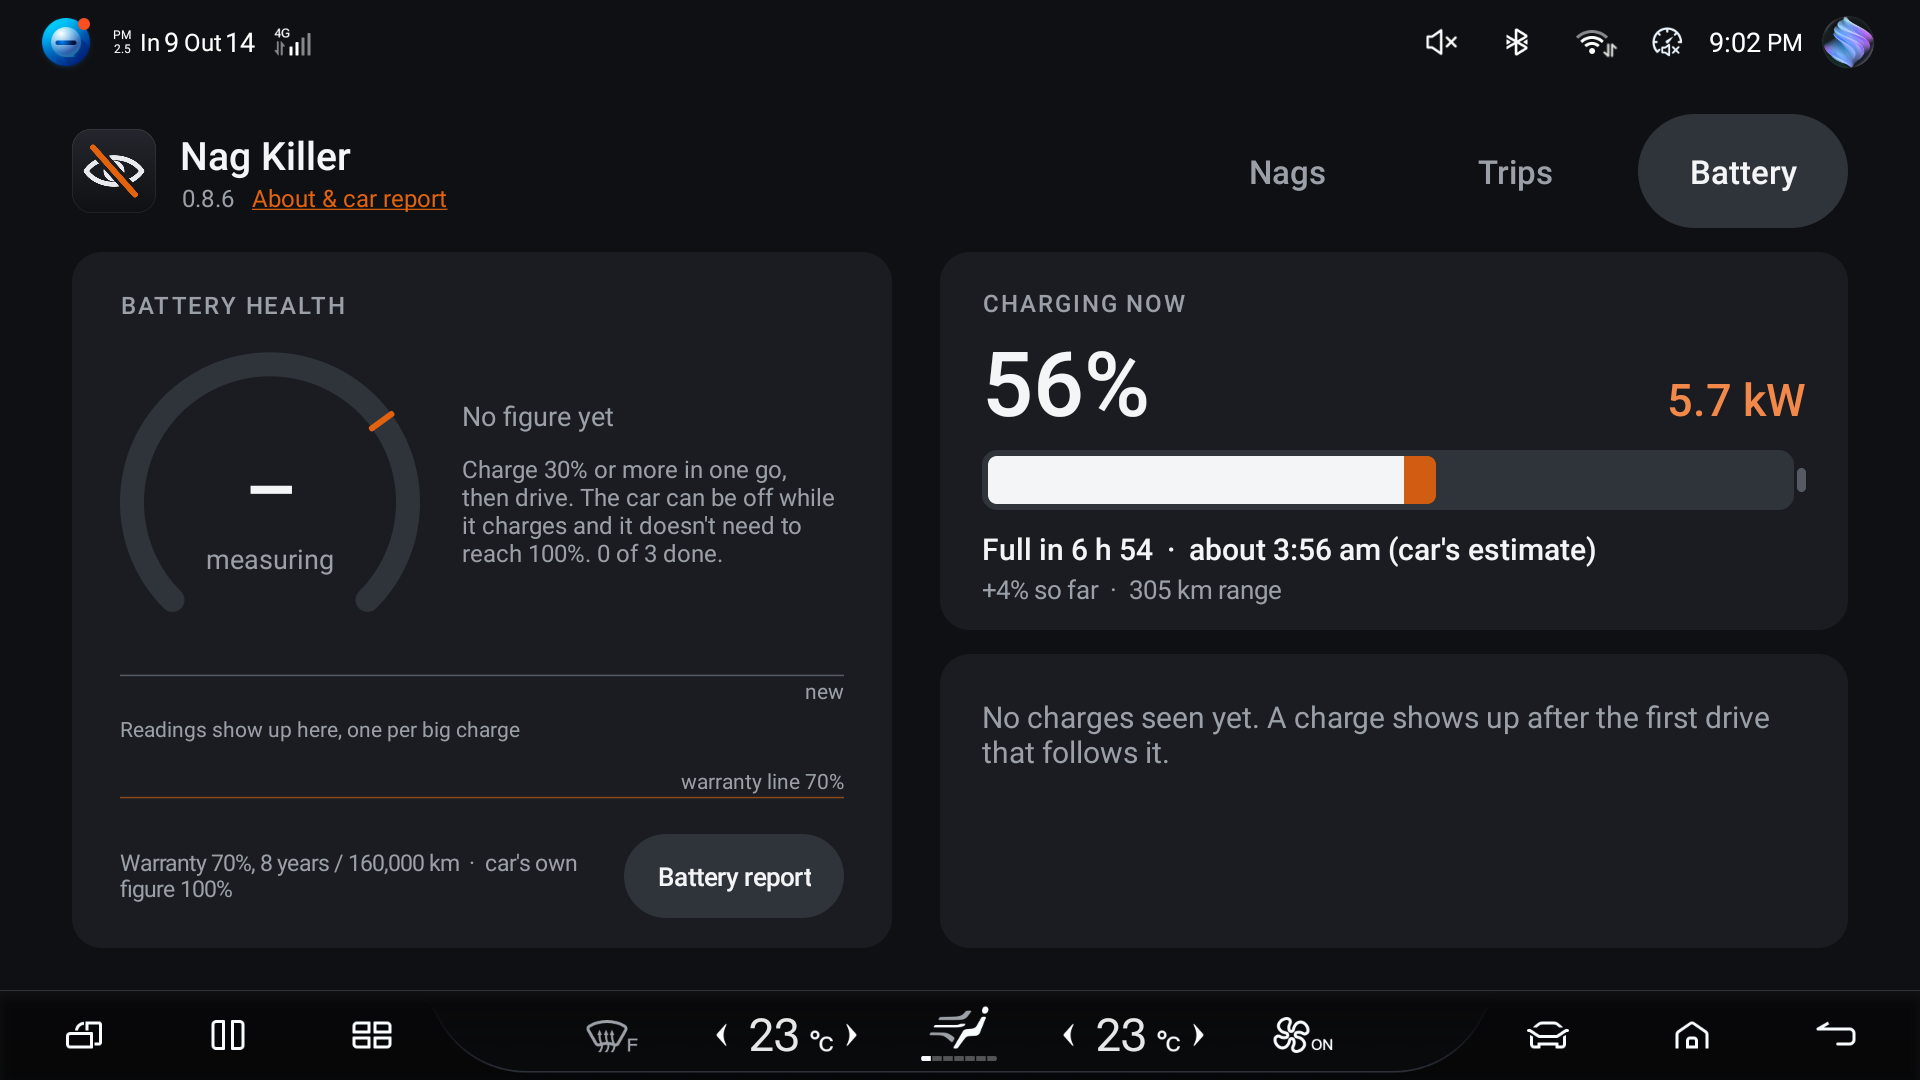
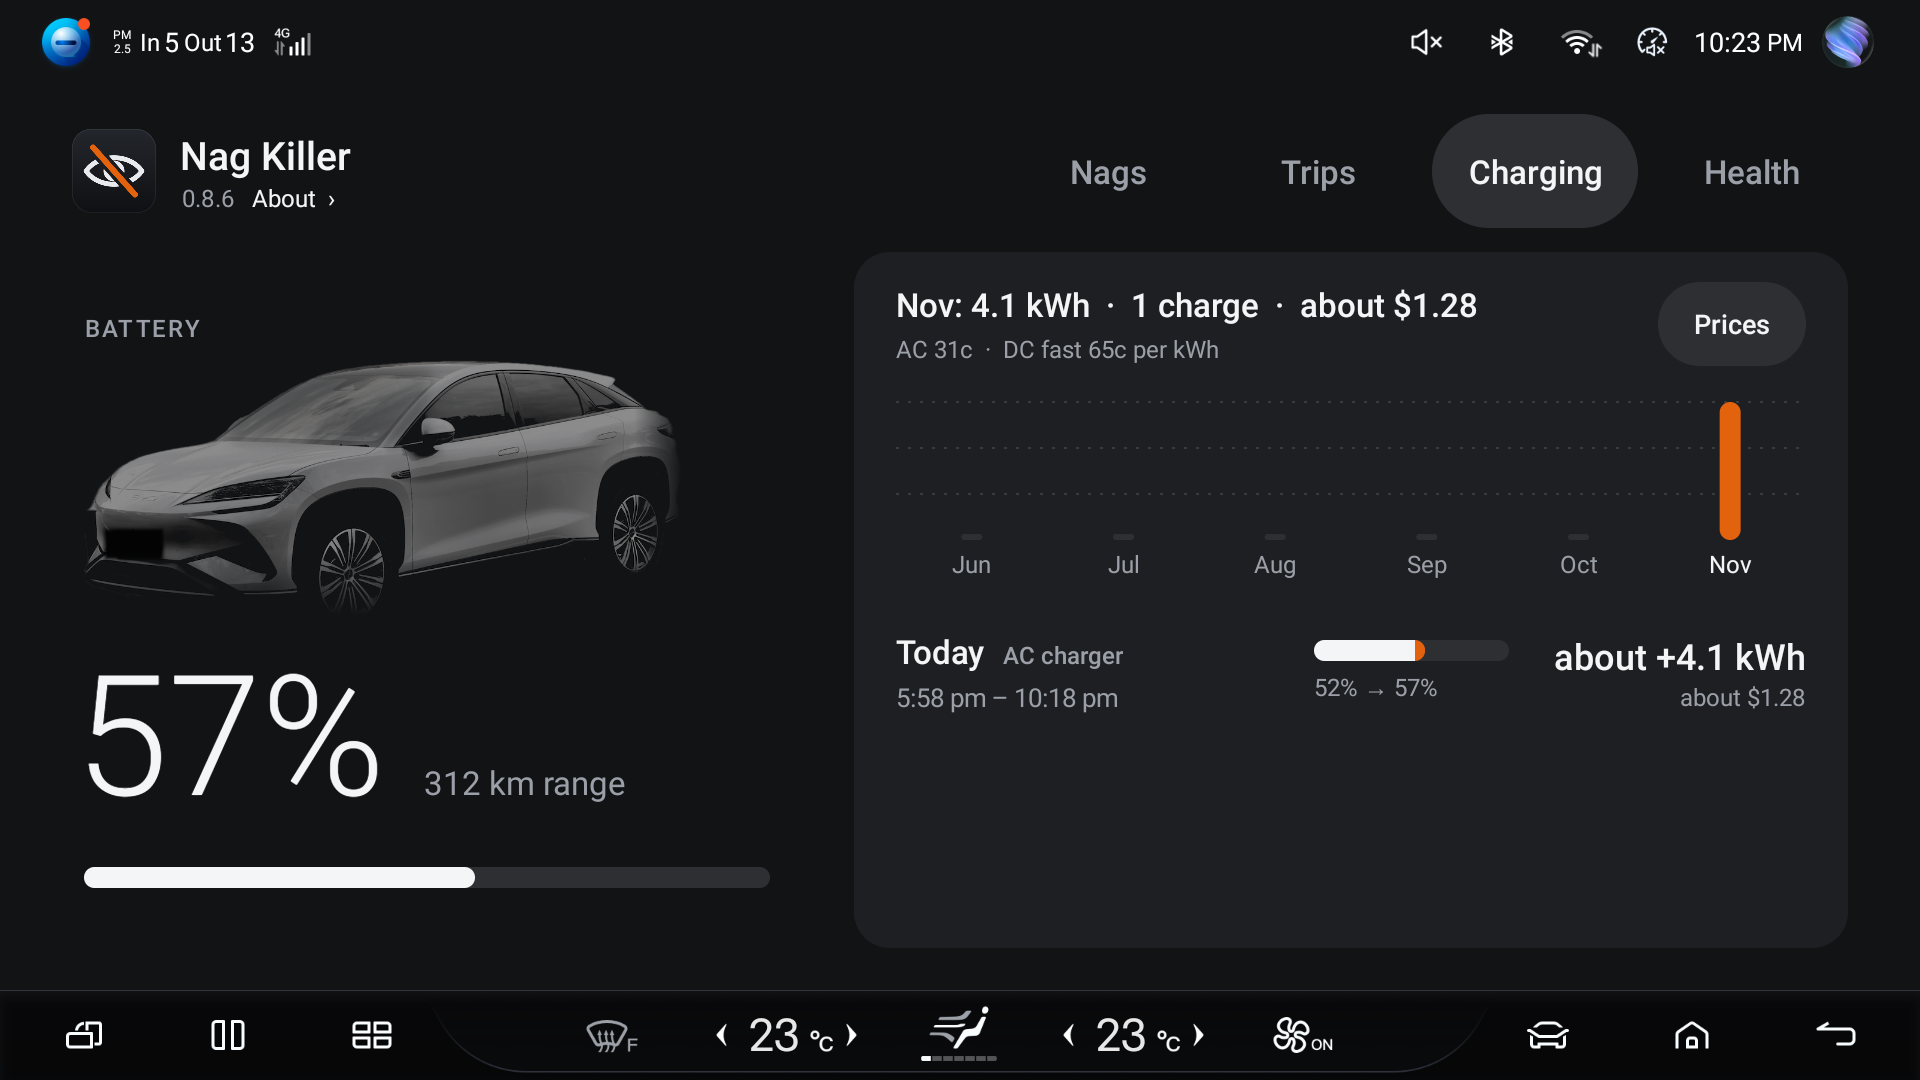
0.9.0-exp1 (vc25): experimental Trips, Charging and Health preview; README section

diff --git a/README.md b/README.md
@@ -3,8 +3,9 @@
 # Nag Killer for BYD Sealion 7
 
 An Android app that runs on the car's screen and keeps the nags you don't want switched off,
-every time you start the car. It can also put your seat fans on for you at every start, and it
-keeps a log of your trips and charges.
+every time you start the car. It can also put your seat fans on for you at every start. An
+experimental release adds a log of your trips and charges and a battery health figure
+([see below](#experimental-trips-charging-and-health)).
 
 It can turn off:
 
@@ -38,52 +39,94 @@ No more pressing the seat fan buttons every drive. Pick Off, Low or High for the
 passenger seats and the app switches them on a few seconds after each start. After that it
 leaves them alone, so if you turn one off mid-drive it stays off until the next start.
 
-## Trips
+## Experimental: Trips, Charging and Health
 
-A Trips tab with every drive: distance, time, energy used, kWh/100km and battery % at the start
-and end, plus a bar chart you can switch between week, month and year, with totals for each
-(trips, driving time, kWh used, kWh charged). It copies the car's own trip counter (the one the dash
-shows when you turn the car off), so the numbers match the car. Stops under 10 minutes are shown
-as one trip. While you're driving it only shows the current trip; the history appears when you're
-in Park.
+**This part is a preview. Most of it has not been properly tested yet, on my car or anyone
+else's.** It's in the 0.9.0 experimental release only, not in the normal release. It's here so
+you can see where the app is heading and tell me what you think. The nags and seat fans work
+the same as before.
 
-It reads the car a few times a minute and saves to a small file on the car. Nothing goes online.
-You can switch it off on the Trips tab.
+What I'm trying to get to: the car keeps no history of its own, so the app keeps it for you.
+Every drive, every charge and what it cost, what you've saved against petrol, and an honest
+battery health figure you can show a buyer when you sell the car.
 
-A charge shows as its own line between the two trips either side of it. After each trip a copy
-of the log is saved as `trips.csv` in `/sdcard/Android/data/au.jaso.naglab/files/` so you can
-pull it off the car and open it in a spreadsheet.
+Everything stays on the car. Nothing goes online.
+
+### Trips
+
+Every drive: distance, time, energy used, kWh/100km and battery % at the start and end, with a
+chart you can switch between week, month and year. It copies the car's own trip counter (the
+one the dash shows when you turn the car off), so the numbers match the car. Stops under 10
+minutes count as one trip. While you're driving it only shows the current trip; the history
+appears in Park.
+
+If you enter a petrol price and what a petrol car would use, it shows what you've saved against
+petrol. A copy of the log is saved as `trips.csv` in `/sdcard/Android/data/au.jaso.naglab/files/`.
 
 ![Trips tab](img/trips.png)
 
-## Battery
+### Charging
 
-A Battery tab with your charges and, over time, how healthy the battery is.
+The battery percent and range, and a list of your charges with before and after percent and the
+kWh that went into the battery. If you sit in the car while it's plugged in you also get kW and
+the car's own time to full.
 
-The app isn't running while the car is off, so it doesn't watch a charge happen. It reads the
-battery (percent and kWh) at the end of one drive and again at the start of the next, and the
-difference is the charge. That means the car can be off while it charges, any charger works,
-and it doesn't need to go to 100%.
+* The app tries to tell AC from DC fast charging by itself. You can change it on any charge.
+* Enter what you pay per kWh for AC and for DC and each charge gets a cost. If a charge cost
+  something different, type what you actually paid for that one.
+* Costs are worked out from the kWh that reached the battery, so your real bill is a little
+  higher (charging losses).
 
-* Charges: every charge with before and after percent and the kWh that went into the battery
-  (not what the charger billed you, charging losses aren't in it), and kWh per month.
-* Charging now: if you sit in the car while it's plugged in you get percent, kW and the car's
-  own time-to-full.
-* Battery health: what a full battery holds now against the 82.56 kWh it held new, with a mark
-  at BYD Australia's 70% warranty line. It takes one reading from each charge or drive that
-  moves the battery 30% or more in one go, shows a figure after three, and uses the middle of
-  the last ten so one odd charge doesn't move it.
+![Charging tab](img/battery.png)
 
-The Battery report button saves a one-page `battery-report.html` in
-`/sdcard/Android/data/au.jaso.naglab/files/` with the car's VIN, the date and odometer, the health
-figure and every reading behind it, and your charging and trip totals. It says on it that it's
-an owner's log, not a certificate.
+### Health
 
-The health figure is new and I'm still checking it on my own car. It's worked out from the
-car's own battery computer, so it's that computer's opinion, not an independent test. Don't
-rely on it for a sale yet.
+What a full battery holds now against the 82.56 kWh it held new, with BYD Australia's 70%
+warranty line marked.
 
-![Battery tab](img/battery.png)
+* Day to day: the app takes a reading each time the battery percent moves by one while the car
+  is on, and shows a figure once it has three in a day.
+* Battery test: the proper measurement. Start it when the battery is at 10% or less, charge to
+  100% on an AC charger without driving, and the app works out the figure from that one charge.
+  It can't be started above 10%, and it tells you if something spoiled it.
+* Battery report: a one-page report with the car's VIN, odometer, the health figure and what it
+  rests on, and your charging and trip totals. With the car on Wi-Fi you can open it on your
+  phone to save or print. It says on it that it's an owner's log, not a certificate.
+
+Both figures come from the car's own battery computer, so they are that computer's opinion, not
+an independent test.
+
+![Health tab](img/health.png)
+
+### What has and hasn't been tested
+
+Tested on my car:
+
+* Trips match the car's own trip summary.
+* One AC charge on a 7 kW wallbox showed correctly while it was happening and afterwards.
+* Prices, costs and the petrol saving show and add up.
+* The report opens on a phone on the same Wi-Fi.
+
+Not tested yet:
+
+* The health figure. It has no readings yet, so nobody has seen whether it is right.
+* The battery test. It has never been run on a car.
+* DC fast charging. The app has never seen one, so telling AC from DC is unproven.
+* Whether the kWh figures match what a charger or a power bill says.
+* Any car other than one Australian 2025 Sealion 7.
+
+Don't rely on any of it for a sale or a warranty question yet.
+
+### Tell me what you think
+
+If you try it, I'd like to hear what's wrong, what's confusing and what you'd want it to do:
+[open an issue](https://github.com/jasoisjaso/byd-nag-killer/issues). Numbers that don't match
+your car, your charger or your bill are the most useful thing you can send.
+
+To try it, install `naglab.apk` from the release marked **Pre-release** on the
+[releases page](https://github.com/jasoisjaso/byd-nag-killer/releases), the same way as the
+normal one below. To go back, uninstall it (`adb uninstall au.jaso.naglab`) and install the normal
+release. Uninstalling clears your settings and the trip log on the car.
 
 ## Install
 
@@ -173,7 +216,7 @@ It doesn't touch Overdrive. If you use Overdrive, the script also wakes it when 
 On my car: DMS, lane assist, child detection, the speed chime, AEB, cross traffic brake and
 emergency lane keeping all go off and come back properly, they're switched off again after a
 restart, the app comes back after the car turns off and after the screen reboots, and it
-survives a night parked. Seat fans come back on at Low or High after a restart. Trips match the car's own trip summary. The Battery tab shows a live charge correctly; the health figure hasn't been checked yet. The over-limit warning switch hasn't been confirmed yet because it
+survives a night parked. Seat fans come back on at Low or High after a restart. The experimental Trips, Charging and Health tabs have their own list above. The over-limit warning switch hasn't been confirmed yet because it
 was already off on my car.
 
 ## Other BYDs
@@ -226,6 +269,8 @@ ship: Watch > Custom > Releases.
 
 Being worked on:
 
+* Trips, charging costs and battery health. In the experimental release now, still being
+  tested (see above).
 * Leave lock. The car locks itself once you've turned it off, got out and shut every door.
   Locking from the app works on my car, the hard part is making sure nobody's still inside.
   On my car only until it's proven.
